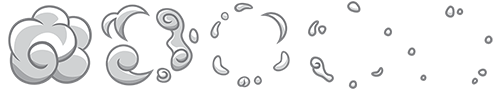
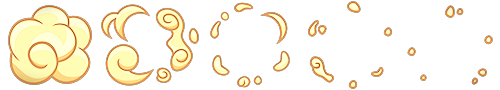
boom and font changes

diff --git a/capy.html b/capy.html
@@ -7,7 +7,7 @@
     <link rel="stylesheet" href = 'capy-styles.css'>
     <link rel="preconnect" href="https://fonts.googleapis.com">
     <link rel="preconnect" href="https://fonts.gstatic.com" crossorigin>
-    <link href="https://fonts.googleapis.com/css2?family=Dela+Gothic+One&display=swap" rel="stylesheet">
+    <link href="https://fonts.googleapis.com/css2?family=Dela+Gothic+One&family=Luckiest+Guy&family=Pixelify+Sans:wght@500&display=swap" rel="stylesheet">
 </head>
 <body>
     <canvas id="game-canvas"></canvas>

diff --git a/UI.js b/UI.js
@@ -4,7 +4,7 @@ export class UI {
     constructor(game){
         this.game = game;
         this.fontSize = 30;
-        this.fontFamily = 'Dela Gothic One';
+        this.fontFamily = 'Luckiest Guy';
     }
 
 draw(context){
